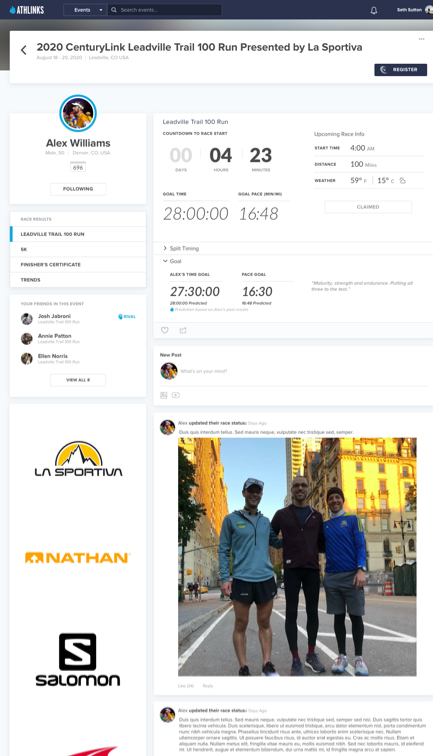
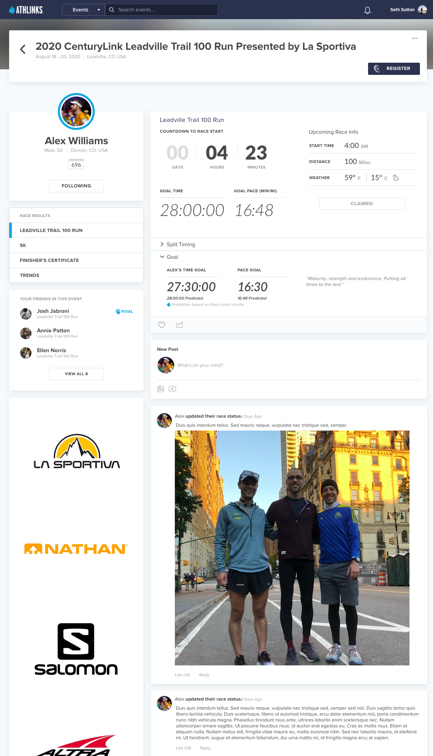
arp copy and updated imgs

diff --git a/src/views/AthlinksView/AthleteRacePage/index.js b/src/views/AthlinksView/AthleteRacePage/index.js
@@ -28,6 +28,7 @@ import thumbMosquito from '../../../static/img/raster/work_thumb_arp_mosquitoTim
 import thumbDesignEvo from '../../../static/img/raster/arp_thumb_designEvo.jpg'
 import thumbDesignEvoContent from '../../../static/img/raster/arp_thumb_designEvoContent.jpg'
 import thumbDesignEvoStates from '../../../static/img/raster/arp_thumb_designEvoStates.jpg'
+import bladeARP_concierge from '../../../static/img/raster/arp_blade_concierge.jpg'
 import bladeARP_preRace from '../../../static/img/raster/arp_blade_pre.jpg' 
 import bladeARP_postRace from '../../../static/img/raster/arp_blade_post.jpg'
 import bladeLeadvilleTent from '../../../static/img/raster/work_athlinks_blade_arp_leadvilletent.jpg'
@@ -39,27 +40,52 @@ import brandAthlinks from '../../../static/img/svg/brand_athlinks.svg'
 import './styles.scss'
 
 const ARPRaceDayThumbs = (props) => {
+
+  const miamiRaceDayCaption = `From the start of the Miami Marathon and Half Marathon, Athlinks was 
+  ingesting start times each time an athletes bib tag was read. `
+
+  const athleteInterviewCaption = `Field research discovering the unmet needs of an athlete during race day.`
+
+  const leadvilleCaption = `Athlete tracking would source the timing data as an athlete crosses a timing 
+  point. Here, we see the timer box and antenna on top of Mosquito Pass (13,186′) for the Leadville Trail 
+  Marathon and Heavy Half. `
+
   return (
     <div className='flex flex-col md:flex-row lg:flex-row'>
       <ThumbInfo
-          thumb={thumbMiamiStart} />
+          thumb={thumbMiamiStart}
+          caption={miamiRaceDayCaption} />
       <ThumbInfo
-          thumb={thumbMiamiAthlete} />
+          thumb={thumbMiamiAthlete}
+          caption={athleteInterviewCaption} />
       <ThumbInfo
-          thumb={thumbMosquito} />
+          thumb={thumbMosquito}
+          caption={leadvilleCaption} />
     </div>
   )
 }
 
-const DesignEvoThumbs = (props) => {
+const DesignStatesThumbs = (props) => {
+
+  const contentThumbCaption=`Information architecture defined in order to prioritize the data needed on 
+  a simple page layout. `
+
+  const feedbackCaption= `Test iterations and notes to guide feedback using UsabilityHub and in-person 
+  testing. `
+
+  const diagramCaption= `Flow diagramming to align teams on the flow for the experience.`
+
   return (
     <div className='flex flex-col md:flex-row lg:flex-row'>
       <ThumbInfo
-          thumb={thumbDesignEvo} />
+          thumb={thumbDesignEvo} 
+          caption={contentThumbCaption}/>
       <ThumbInfo
-          thumb={thumbDesignEvoContent} />
+          thumb={thumbDesignEvoContent}
+          caption={feedbackCaption} />
       <ThumbInfo
-          thumb={thumbDesignEvoStates} />
+          thumb={thumbDesignEvoStates}
+          caption={diagramCaption} />
     </div>
   )
 }
@@ -70,12 +96,45 @@ const SectionBorder = () => {
   )
 }
 
-const BladeColumns = () => {
+const SectionTitleBlock = (props) => {
+  const sectionTitle = props.sectionTitle ?? ''
+  const copy = props.copy ?? ''
+  return (
+    <div className='ml-8 text-left'>
+      <div className='text-3xl font-semibold text-left mt-24'>
+        <h3>{sectionTitle}</h3>
+      </div>
+      <div className='mt-12'>
+        {copy}
+      </div>
+    </div>
+  )
+}
 
-  const athlinksCopy = `In at libero varius, rutrum leo eu, eleifend purus. Etiam 
-  vulputate fringilla neque sit amet gravida. Vestibulum id turpis vestibulum felis 
-  suscipit faucibus. Donec et sollicitudin velit. Vivamus nec diam non lacus suscipit 
-  varius ac ut risus. Aliquam erat volutpat. Vivamus elementum vestibulum ligula.`
+
+const VisualARPBladeColumns = () => {
+
+  const preRaceCaption = (
+    <div>
+      <p>The pre-race experience afforded the user data drive analysis based on their previous races. 
+        Such metrics would include, predicted pace and finish time, age, gender and overall bracket 
+        comparisons, and follower comparisons. </p>
+      <br/>
+      <p>Social posts from the athlete, their followers, events and system generated entries would 
+        display in a feed-style chronological order. </p>
+    </div>
+  ) 
+
+  const postRaceCaption = (
+    <div>
+      <p>During and after the race, each split time from a timing point would update the tabular data.</p>
+      <br/>
+      <p>The finisher result data would be prioritized at the top while collapsing the pre-race goal data.</p>
+        <br/>
+      <p>Post race information displays the athletes finish time, age, gender and overall rankings, pace 
+        for each split and their split times. </p>
+    </div>
+  ) 
 
   return (
     <div className='flex flex-col lg:flex-row'>
@@ -83,19 +142,19 @@ const BladeColumns = () => {
         sectionTitle='Athlete Race Pages'
         red={false}
         img={bladeARP_preRace}
-        title='Design Evolution'
+        title='Pre-Race Visual Hierarchy'
         titleColor='athlinks-blue'
         copyLeft={true}
-        copy={athlinksCopy}>
+        copy={postRaceCaption}>
       </BladeColumn>
       <BladeColumn
         sectionTitle='Athlete Race Pages'
         red={false}
         img={bladeARP_postRace}
-        title='Design Evolution'
+        title='Post-Race Visual Hierarchy'
         titleColor='athlinks-blue'
         copyLeft={true}
-        copy={athlinksCopy}>
+        copy={preRaceCaption}>
       </BladeColumn>
     </div>
   )
@@ -109,38 +168,71 @@ export default function AthleteRacePage(props){
   suscipit faucibus. Donec et sollicitudin velit. Vivamus nec diam non lacus suscipit 
   varius ac ut risus. Aliquam erat volutpat. Vivamus elementum vestibulum ligula.`
 
-  const challenge = `Timers use our hardware to time athletic events, but they may use 
-  different scoring platforms to push results to. How do we ensure Athlinks members 
-  can rely on Athlinks for all of their race results in one place?`
+  const defineProbCopy = `Our UX team attended quite a few events, from local 5k runs 
+  to the Leadville Trail 100 Run. Each of these events had very prevalent themes emerge 
+  from speaking with athletes and their spectors. These themes included athlete tracking, 
+  event and race day information, event logistics and changes, and finisher results. Athletes 
+  would periodically say, “just give me a URL I can share with my family and friends.”`
 
-  const background = `In at libero varius, rutrum leo eu, eleifend purus. Etiam 
-  vulputate fringilla neque sit amet gravida. Vestibulum id turpis vestibulum felis 
-  suscipit faucibus. Donec et sollicitudin velit. Vivamus nec diam non lacus suscipit 
-  varius ac ut risus. Aliquam erat volutpat. Vivamus elementum vestibulum ligula.`
+  const challenge = `Athletes needed a single URL for their upcoming races to share out 
+  to their spectators, friends, and family. Important details such as race date and time, 
+  their start of the race, crossing a timing split and their finish. Other details include 
+  fundraising promotions for charitable contributions, corral information, and packet pickup. 
+  Even down to the course map and the location of all the porta-potties. `
+
+  const background = `Athlinks aggregates results from different registration and race timing 
+  providers where we had only direct access to about 12% of all the events in the world. For 
+  the athlete, they just want friends and family to be able to track them during their race. 
+  Sometimes that was difficult without having the source of the race until after the event 
+  has occurred. `
+
+  const raceDayScenarioCopy = (
+    <div>
+      <p>Once a month, our teams including product, UX, development, events, customer support, 
+        sales, marketing and the volunteer athletes would hold a 5k event to demonstrate and test 
+        race day scenarios. </p>
+      <br/>
+      <p>Some of the scenarios would include different race types, bike and run, on the same 
+        course at the same time. Athlete switching races as it happens, (doing the half marathon 
+        versus the full)...etc. Testing included different registration sources. </p>
+        <br/>
+      <p>Having the data synchronized into our platform before the race occurred was a point of 
+        leverage to offer the athlete a persistent url, the Athlete Race Page.  </p>
+    </div>
+  )
+
+  const raceStatesCopy = (
+    <div>
+      <p>State transitions depicted helped identify scenarios needed for how the data and its actions
+        would be rendered in an UI. </p>
+      <br/>
+      <p>States included onboarding, claimed versus unclaimed race pages, pre, during and post race...etc. </p>
+        <br/>
+    </div>
+  )
+
+  const regConciergeCopy = (
+    <div>
+      <p>Once an athlete has completed their registration in a partner third party system, Athlete Race Page 
+        onboarding would kick off. </p>
+      <br/>
+      <p>This was then reinforced through a redundant email campaign to make sure the athlete had their race 
+        day informati</p>
+        <br/>
+    </div>
+  )
   
-  // const  match = useRouteMatch()
   let { path, url } = useRouteMatch();
-
-  // let { topicId } = useParams()
-
   const overviewLink = (<div><Link to={`/athlinks`}><h1>Overview</h1></Link></div>)
-  // console.log('path: ', path)
-  // console.log('url: ', url)
-
-  // console.log('topocId: ' , topicId)
 
   return (
     <div className='text-lg'>
-      {/* <Hero
-        copy='Athlinks is owned by Life Time Fitness along with Chronotrack providing 
-        race registration, timing and scoring, and race results for endurance athletic events 
-        including the New York Marathon and Spartan events.'/> */}
         {overviewLink}
       <Synopsis
         title='Athlete Race Page'
         target='Athletes'
         challenge={challenge}
-        role='Director, facilitaor, researcher, usability tester'
+        role='Director, facilitaor, researcher, designer, usability tester'
         background={background}/>
       <div className='container mx-auto'>
         <Blade
@@ -150,29 +242,38 @@ export default function AthleteRacePage(props){
           title='Customer Expereince Journey Mapping'
           titleColor='athlinks-blue'
           copyLeft={true}
-          copy={athlinksCopy}/>
+          copy={defineProbCopy}/>
         <Blade
           red={false}
           img={bladeJerika}
-          title='Onsite - Building Empathy for the Human'
+          title='Race Day Scenario Emulation'
           titleColor='athlinks-blue'
           copyLeft={false}
-          copy={athlinksCopy}>
+          copy={raceDayScenarioCopy}>
             <ARPRaceDayThumbs title='Hello There This is a title'/>
             <SectionBorder/>
         </Blade>
         <Blade
-          sectionTitle='Athlete Race Pages'
+          sectionTitle='Athlete Race Page State Transitions'
           red={false}
           img={bladeARPStates}
-          title='Design Evolution'
+          title='Changing of the Data'
           titleColor='athlinks-blue'
           copyLeft={true}
-          copy={athlinksCopy}>
-            <DesignEvoThumbs/>
+          copy={raceStatesCopy}/>
+        <Blade
+          red={false}
+          img={bladeARP_concierge}
+          title='Registration Concierge'
+          titleColor='athlinks-blue'
+          copyLeft={false}
+          copy={regConciergeCopy}>
+            <DesignStatesThumbs/>
             <SectionBorder/>
         </Blade>
-        <BladeColumns/>
+        <SectionTitleBlock
+          sectionTitle='Visual Designs'/>
+        <VisualARPBladeColumns/>
         
       </div>
     </div>

diff --git a/src/views/PlanfuView/ClientLanding/index.js b/src/views/PlanfuView/ClientLanding/index.js
@@ -113,7 +113,7 @@ const SectionTitleBlock = (props) => {
   const sectionTitle = props.sectionTitle ?? ''
   const copy = props.copy ?? ''
   return (
-    <div className='ml-8 lg:ml-12 text-left'>
+    <div className='ml-8 text-left'>
       <div className='text-3xl font-semibold text-left mt-24'>
         <h3>{sectionTitle}</h3>
       </div>
